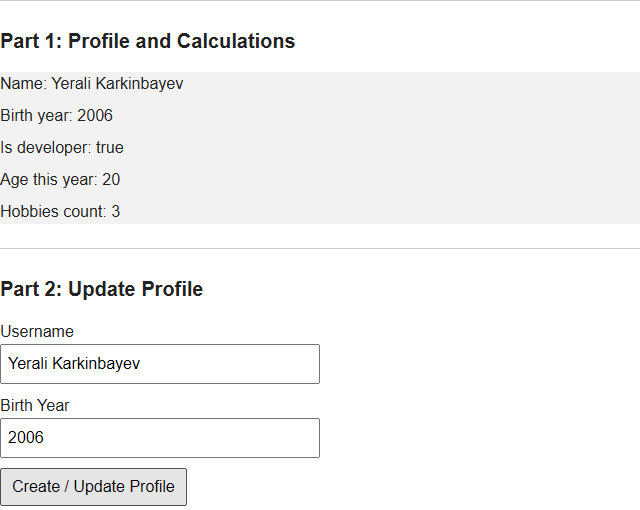
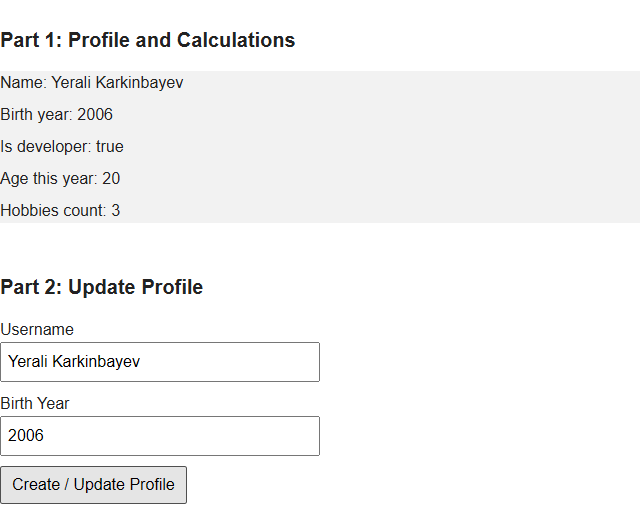
assignment5

diff --git a/script.js b/script.js
@@ -10,10 +10,6 @@ const birthYearInput = document.getElementById("birth-year");
 const hobbyInput = document.getElementById("new-hobby");
 const hobbyList = document.getElementById("hobby-list");
 
-birthYearInput.max = new Date().getFullYear();
-usernameInput.value = userProfile.name;
-birthYearInput.value = userProfile.birthYear;
-
 function showProfile() {
   const currentYear = new Date().getFullYear();
   const age = currentYear - userProfile.birthYear;
@@ -42,13 +38,7 @@ showProfile();
 
 document.getElementById("profile-form").addEventListener("submit", function (event) {
   event.preventDefault();
-  const username = usernameInput.value.trim();
-
-  if (username === "") {
-    return;
-  }
-
-  userProfile.name = username;
+  userProfile.name = usernameInput.value;
   userProfile.birthYear = Number(birthYearInput.value);
   showProfile();
   document.getElementById("profile").style.backgroundColor = "#f2f2f2";
@@ -56,15 +46,9 @@ document.getElementById("profile-form").addEventListener("submit", function (eve
 
 document.getElementById("hobby-form").addEventListener("submit", function (event) {
   event.preventDefault();
-  const hobby = hobbyInput.value.trim();
-
-  if (hobby === "") {
-    return;
-  }
-
+  const hobby = hobbyInput.value;
   userProfile.hobbies.push(hobby);
   addListItem(hobby);
-  hobbyInput.value = "";
   showProfile();
 });
 

diff --git a/index.html b/index.html
@@ -4,7 +4,6 @@
   <meta charset="UTF-8">
   <meta name="viewport" content="width=device-width, initial-scale=1.0">
   <title>Assignment 5: JavaScript Basics</title>
-  <link rel="icon" href="data:,">
   <link rel="stylesheet" href="style.css">
 </head>
 <body>
@@ -27,10 +26,10 @@
       <h2>Part 2: Update Profile</h2>
       <form id="profile-form">
         <label for="username">Username</label>
-        <input id="username" name="username" type="text" required>
+        <input id="username" name="username" type="text">
 
         <label for="birth-year">Birth Year</label>
-        <input id="birth-year" name="birthYear" type="number" min="1" step="1" required>
+        <input id="birth-year" name="birthYear" type="number">
 
         <button type="submit">Create / Update Profile</button>
       </form>
@@ -42,7 +41,7 @@
 
       <form id="hobby-form">
         <label for="new-hobby">New hobby</label>
-        <input id="new-hobby" name="hobby" type="text" required>
+        <input id="new-hobby" name="hobby" type="text">
         <button type="submit">Add Item</button>
         <button id="remove-item" type="button">Remove Item</button>
       </form>

diff --git a/style.css b/style.css
@@ -9,7 +9,6 @@ main {
   max-width: 640px;
   margin: 20px auto;
   padding: 0 16px;
-  overflow-wrap: anywhere;
 }
 
 h1 {
@@ -23,7 +22,6 @@ h2 {
 section {
   margin-top: 24px;
   padding-top: 8px;
-  border-top: 1px solid #ccc;
 }
 
 p {
@@ -49,5 +47,4 @@ button {
   font: inherit;
   padding: 5px 10px;
   margin-bottom: 4px;
-  cursor: pointer;
 }
